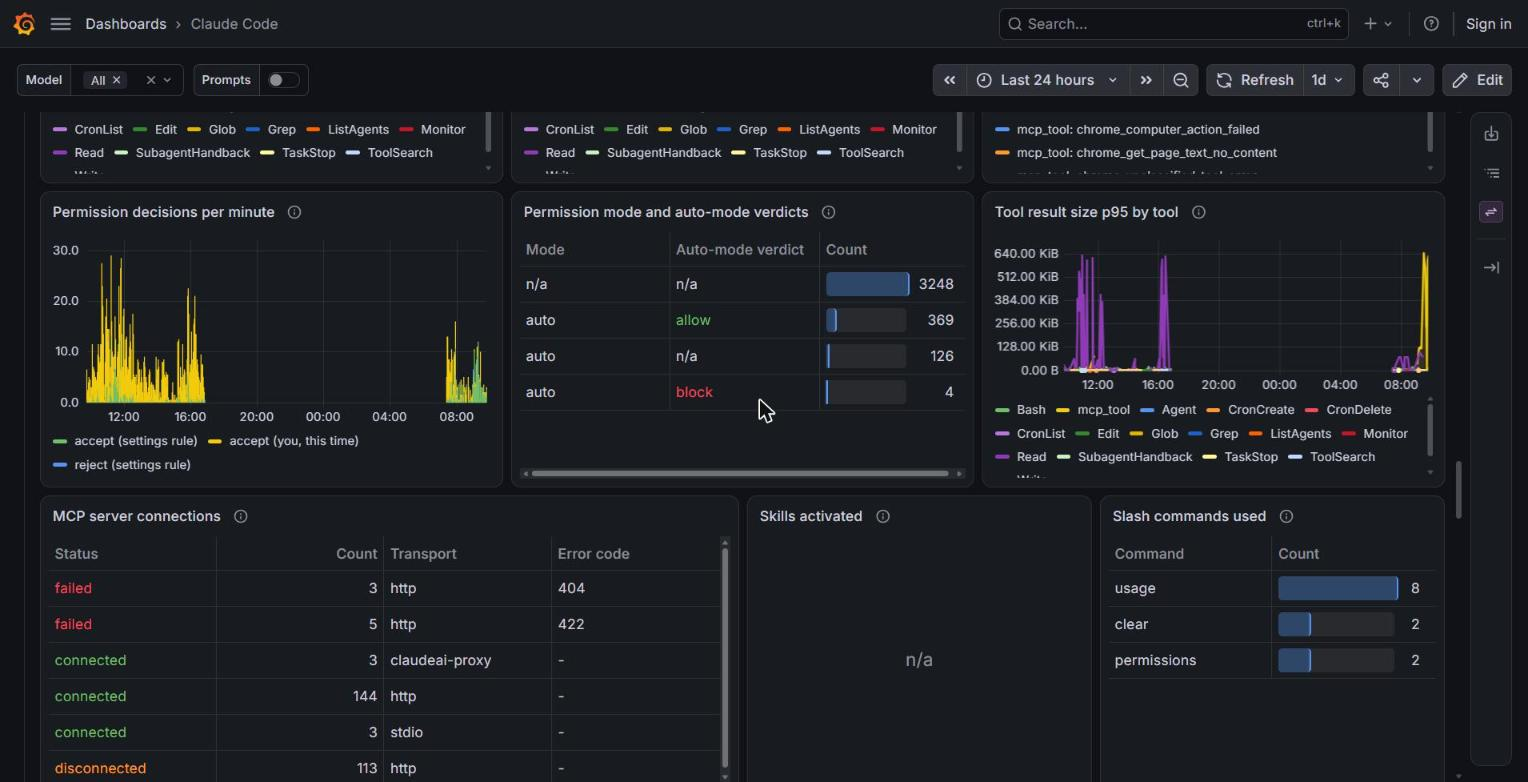
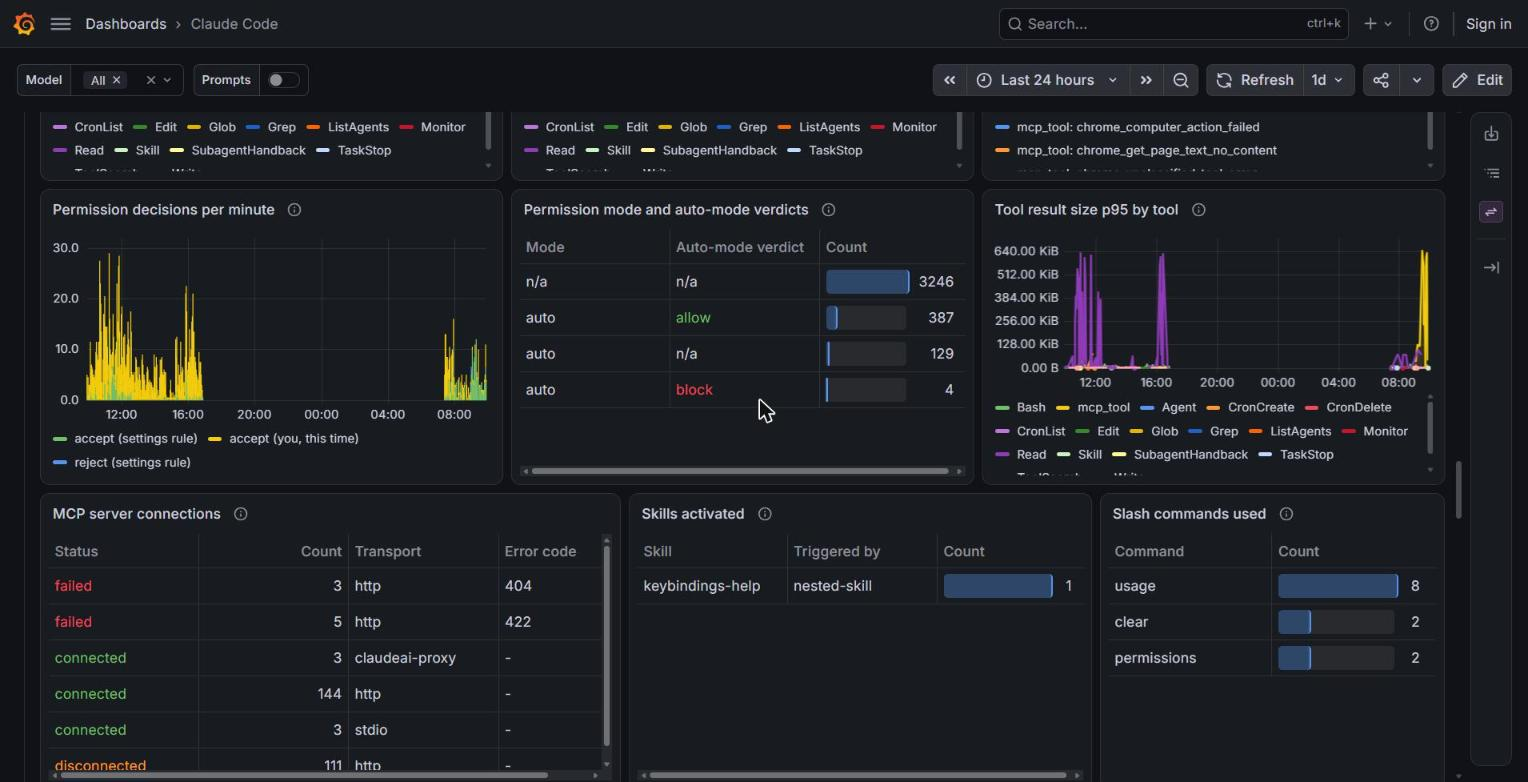
Dashboard: widen the skills and MCP tables so no column is clipped; refresh tools screenshot

diff --git a/tools/gen_dashboard.py b/tools/gen_dashboard.py
@@ -538,7 +538,7 @@ panels += [
 ]
 y += 8
 panels += [
-    table("MCP server connections", LOKI, cnt("mcp_server_connection", "status, transport_type, error_code"), 0, y, 12, 8,
+    table("MCP server connections", LOKI, cnt("mcp_server_connection", "status, transport_type, error_code"), 0, y, 10, 8,
           order=["status", "Value #A", "transport_type", "error_code"],
           rename={"status": "Status", "Value #A": "Count", "transport_type": "Transport", "error_code": "Error code"},
           desc="mcp_server_connection events in the range. 'failed' means a configured server did not start; the error code says why (e.g. an HTTP status).",
@@ -549,7 +549,7 @@ panels += [
                                          "disconnected": {"color": "orange", "index": 2}}}]}]},
                      {"matcher": {"id": "byName", "options": "Error code"}, "properties": [{"id": "noValue", "value": "-"}]}]),
     count_table("Skills activated", cnt("skill_activated", "skill_name, invocation_trigger"),
-                [("skill_name", "Skill"), ("invocation_trigger", "Triggered by")], 12, y, 6, 8,
+                [("skill_name", "Skill"), ("invocation_trigger", "Triggered by")], 10, y, 8, 8,
                 desc="Skills loaded, and whether you or Claude triggered them."),
     count_table("Slash commands used", cnt("user_prompt", "command_name", ' | command_name!=""'),
                 [("command_name", "Command")], 18, y, 6, 8,
